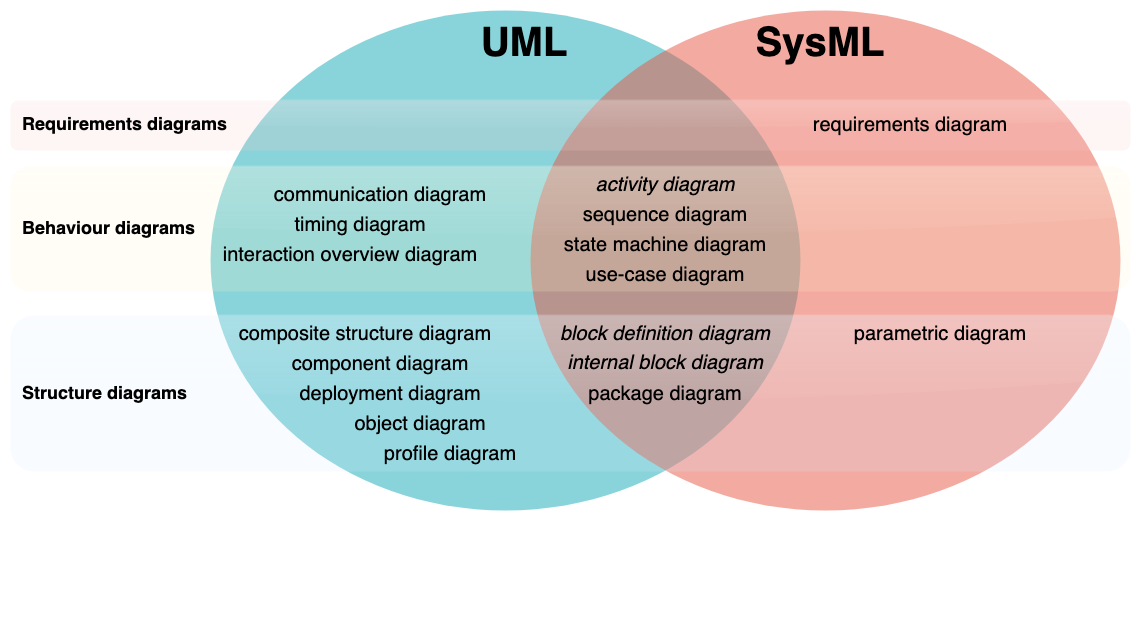
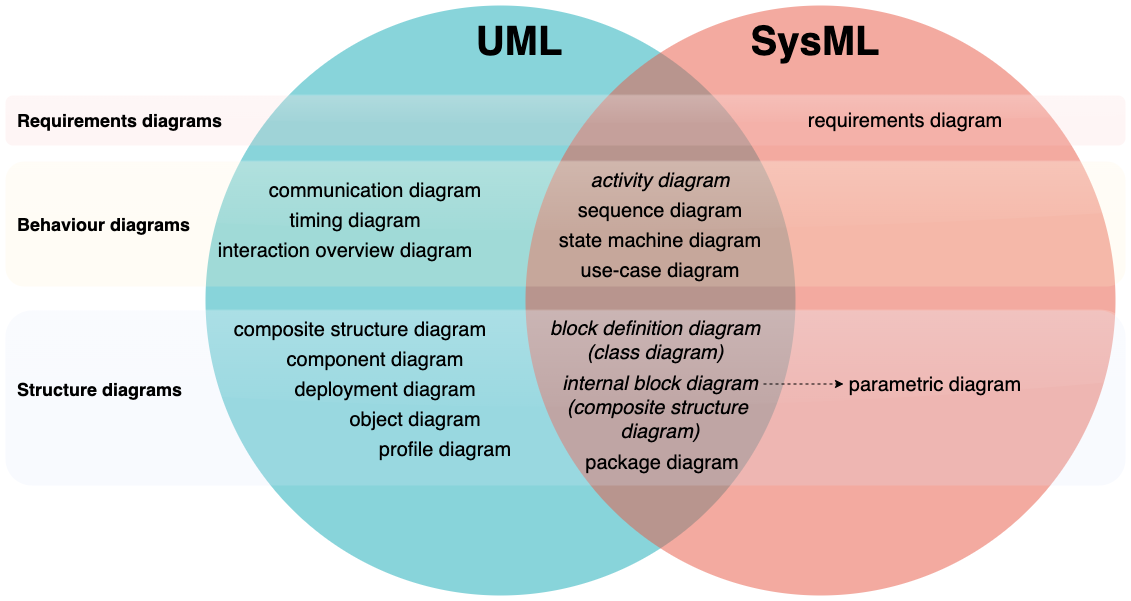
blog post

diff --git a/_posts/2022-09-02-sysml-vs-uml.md b/_posts/2022-09-02-sysml-vs-uml.md
@@ -1,0 +1,157 @@
+---
+layout: post
+author: diagrams.net
+slug: sysml-vs-uml
+date: 2022-09-02 09:43:00
+title: SysML vs UML - what's the difference?
+tags: [uml]
+categories: [use-cases]
+---
+
+Systems modelling language (SysML), is an extension of UML that has been modified for systems engineering. While both can document software, information and processes, SysML diagrams also document the hardware, humans, physical components, and facilities in the system.
+<br />[<img src="/assets/img/blog/sysml-vs-uml.png" style="width=100%;max-width:600px;height:auto;" alt="The diagram types in SysML vs UML">](https://viewer.diagrams.net/?lightbox=1&highlight=0000ff&edit=_blank&layers=1&page=0&nav=1&title=#Uhttps%3A%2F%2Fraw.githubusercontent.com%2Fjgraph%2Fdrawio-diagrams%2Fdev%2Fblog%2Fsysml-vs-uml.drawio)
+
+SysML has fewer diagrams than UML, and modifies three of the shared diagram types: activity diagrams, block definition diagrams (from class diagrams), and internal block diagrams (from composite structure diagrams). 
+
+Two new types of diagrams in SysML - requirements and parametric diagrams - are used to document specifications and ensure the system and illustrate how the product will meet measurable performance, safety or quality criteria.
+
+**Multi-page diagrams:** As each system or component may contain sub-systems/sub-components, [use multi-page diagrams](/blog/multiple-page-diagrams.html) and [link](/doc/faq/insert-text-link.html) the parent shape to its detailed diagram page. Select a shape and press ``Alt+Shift+L``, or right click on a shape and select _Edit Link_ .
+<br /><img src="/assets/img/blog/sysml-package-diagram-add-link.png" style="width=100%;max-width:300px;height:auto;" alt="Add links to sub-package diagrams on another page to easily navigate your diagram">
+
+
+## Enable the SysML shape library
+
+To create SysML diagrams in diagrams.net or draw.io, enable the SysML shape library. The shapes are organised into diagram-type sub-categories.
+1. Click on _More Shapes_ at the bottom of the shape panel on the left.
+2. Enable the checkbox next to _SysML_ in the _Business_ section.
+3. Click _Apply_.
+<br /><img src="/assets/img/blog/sysml-shape-library-enable.png" style="width=100%;max-width:300px;height:auto;" alt="Enable the SysML shape library">
+
+While you could create many of the diagrams with the UML shape libraries, the block shapes with ports, constraints and flows are in the SysML shape library.
+
+**Tip:** [Style the shapes with colour](/doc/faq/shape-styles.html) to more clearly differentiate between types of elements, different groupings or regions.
+
+## SysML diagrams for systems engineering
+
+Many of the SysML diagrams are the same or very similar to their UML counterparts - this is noted when each diagram type is introduced below.
+
+### Requirements diagrams  
+
+SysML requirements models are created early in the process to define and refine customer requirements. _(SysML only)_
+
+Also called detailed specification diagrams, requirements diagrams show how the different requirements are related to each other and design elements. They include descriptive test cases to ensure requirements are tracked and met during implementation. 
+
+Requirements can be specified as:
+
+* **functional** - these requirements _must_ be met.
+* **non-functional** - a quality criteria to test and evaluate the performance of a system and whatever it outputs.
+  
+Non-functional requirements can be specialised in the following ways.
+* ``<<performanceRequirement>>``
+* ``<<interfaceRequirement>>``
+* ``<<designConstraint>>``
+* ``<<physicalRequirement>>``
+
+Contained requirements are indicated with a circle with a vertical cross at the parent requirement. Test cases and derived requirements are linked to requirements with a dashed connector and an appropriate label.
+<br />[<img src="/assets/img/blog/sysml-requirements-diagram.png" style="width=100%;max-width:500px;height:auto;" alt="Draw SysML requirements diagrams in diagrams.net and draw.io with the SysML shape library">](https://viewer.diagrams.net/?lightbox=1&highlight=0000ff&edit=_blank&layers=1&page=0&nav=1&title=#Uhttps%3A%2F%2Fraw.githubusercontent.com%2Fjgraph%2Fdrawio-diagrams%2Fdev%2Fexamples%2Fsysml-requirements-diagram.drawio)
+
+### Use-case diagrams
+
+A use case diagram all of the ways an end-user interacts with your systems. _(Same as UML)_
+<br />[<img src="/assets/img/blog/uml-use-case-example.png" style="width=100%;max-width:400px;height:auto;" alt="An example of a use case diagram">](https://app.diagrams.net/?lightbox=1&highlight=0000ff&edit=_blank&layers=1&nav=1&title=#Uhttps%3A%2F%2Fraw.githubusercontent.com%2Fjgraph%2Fdrawio-diagrams%2Fdev%2Fexamples%2Fuml-use-case-example.drawio)
+
+### Sequence diagrams
+
+[Sequence diagrams](/blog/sequence-diagrams.html) show the order of messages that are passed between the elements of a system to complete a particular task or use case. _(Same as UML)_
+<br />[<img src="/assets/img/blog/uml-sequence-example.png" style="width=100%;max-width:400px;height:auto;" alt="Add shape and connector labels and drag text for conditions into a frame shape in a sequence diagram in diagrams.net">](https://app.diagrams.net/?lightbox=1&highlight=0000ff&edit=_blank&layers=1&nav=1&title=#Uhttps%3A%2F%2Fraw.githubusercontent.com%2Fjgraph%2Fdrawio-diagrams%2Fdev%2Fexamples%2Fsequence-diagram-examples.drawio)
+
+
+### State machine diagrams
+
+[State machine diagrams](/blog/uml-state-diagrams.html) document the various states a system can reach. Each node shows a system state, and the connectors show the triggers that force a change to another state.  _(Same as UML)_
+<br />[<img src="/assets/img/blog/uml-state-diagram-smart-lock.png" style="width=100%;max-width:400px;height:auto;" alt="An example top-level UML state machine diagram of a smart lock">](https://viewer.diagrams.net/?lightbox=1&highlight=0000ff&edit=_blank&layers=1&page=0&nav=1&title=#Uhttps%3A%2F%2Fraw.githubusercontent.com%2Fjgraph%2Fdrawio-diagrams%2Fdev%2Fblog%2Fuml-state-diagram-smart-lock.drawio)
+
+
+### Activity diagrams
+
+_Activity diagrams in SysML use slightly different shapes to those in UML, but the concepts are the same._
+
+In SysML [activity diagrams](/blog/uml-2-5), steps showing both the flow of control (solid connector) and the flow of data (dashed connector) are arranged into swimlanes. Regions can show events, group sub-activities, or note interrupts. 
+<br />[<img src="/assets/img/blog/sysml-activity-diagram.png" style="width=100%;max-width:650px;height:auto;" alt="Activity diagrams are used to model workflows in various ways">](https://viewer.diagrams.net/?lightbox=1&highlight=0000ff&edit=_blank&layers=1&page=0&nav=1&title=#Uhttps%3A%2F%2Fraw.githubusercontent.com%2Fjgraph%2Fdrawio-diagrams%2Fdev%2Fexamples%2Fsysml-activity-diagram.drawio)
+
+Use the shapes in the _SysML Activities_ category to build your activity diagram. The ports on activity shapes - the small squares - specify where data parameters or objects are required.
+<br /><img src="/assets/img/blog/sysml-activity-shapes.png" style="width=100%;max-width:400px;height:auto;" alt="The SysML activity shapes are different to those used in UML">
+
+
+### Package diagrams
+
+_SysML package diagrams are slightly different to UML package diagrams._
+
+Package diagrams are used to document, organise and manage large and complex systems. From this overview, you can link to lower level diagrams for sub-packages, operations (activity diagram), constraints, blocks, and so on. 
+
+Use shapes in the _Model elements_ category, and place them to form logical groups inside each package, including views and viewpoints, models and model libraries, constraints, and requirements where required.
+<br /><img src="/assets/img/blog/sysml-model-element-shapes.png" style="width=100%;max-width:500px;height:auto;" alt="The SysML model element shapes contain various styles of packages, models, views and viewpoints">
+
+Use the _Package Diagram_ as the outer shape to name the diagram. _SysML Blocks_ shapes can also be used in package diagrams. 
+
+Relationships between packages and elements are shown with different connector ends and solid or dashed lines: depend, import, realize, conform, contain, refine, and expose. 
+<br />[<img src="/assets/img/blog/sysml-package-diagram.png" style="width=100%;max-width:650px;height:auto;" alt="Package diagrams group elements of a system in a variety of logical ways">](https://viewer.diagrams.net/?lightbox=1&highlight=0000ff&edit=_blank&layers=1&page=0&nav=1&title=#Uhttps%3A%2F%2Fraw.githubusercontent.com%2Fjgraph%2Fdrawio-diagrams%2Fdev%2Fexamples%2Fsysml-package-diagram.drawio)
+
+**Tip:** Label any unclear relationships by double clicking on a connector, e.g. ``<<conform>>`` or ``<<refine>>``.
+
+Many of these shapes can contain sub-diagrams. Alternatively, create a [multi-page diagram](/blog/multiple-page-diagrams.html) and [link from the parent shape](/doc/faq/insert-text-link.html) to its page.
+
+
+
+### Block definition diagrams
+
+_SysML block definition diagrams are heavily modified [UML class diagrams](/blog/uml-class-diagrams.html)._
+
+'Blocks' describe the architecture of a system and contain **constraints**, **operations**, **parts**, **references**, **values**, and **properties** - everything you need to specify the hardware, software, and human components of a system.
+
+One or more compartments - **stereotype**, **namespace**, and **structure** - may contain lower level block definition diagrams, nesting simpler systems inside higher level blocks. 
+
+Connectors indicate behaviour similar to UML class diagrams, but with fewer 'arrow' types: 
+* **dependency** - dashed line
+* **association** - middle label with an arrow to indicate association direction
+   * **part association** - filled diamond
+   * **shared association** - empty diamond
+* **generalisation** - empty triangle
+* **namespace containment** - circle with horizontal/vertical bars
+
+Connectors can split to form multi-branch associations. Use the waypoint shape to join these connectors neatly in diagrams.net.
+<br />[<img src="/assets/img/blog/sysml-block-definition-diagram.png" style="width=100%;max-width:600px;height:auto;" alt="Draw SysML block definition diagrams in diagrams.net and draw.io with the SysML shape library">](https://viewer.diagrams.net/?lightbox=1&highlight=0000ff&edit=_blank&layers=1&page=0&nav=1&title=#Uhttps%3A%2F%2Fraw.githubusercontent.com%2Fjgraph%2Fdrawio-diagrams%2Fdev%2Fexamples%2Fsysml-block-definition-diagram.drawio)
+
+**Work with text in block shapes:** 
+* Press ``Enter`` to add a new line.  
+  
+* Double click on a word to highlight and format it with the _Text_ tab on the format panel.
+  
+* To add a section divider, highlight an existing divider in any block shape. Double click on target block so you can see the text cursor, and press ``Ctrl+C`` then ``Ctrl+V`` to copy and paste the section divider at that location.
+
+### Internal block diagrams
+
+_SysML internal block diagrams are modified [UML composite structure diagrams](/blog/uml-2-5.html)._
+
+Internal block diagrams describe connections between the ports of block instances to show what data or material flows between those blocks and its properties.
+
+There are some special types of properties:
+* **ports** - permit only specific types of interactions with that block
+* **constraints** - limit other properties inside the block
+* **participants** - indicate composite associations
+
+Connectors in internal block diagrams can show the following: 
+* **dependency** - dashed line
+* **binding** - solid line, optionally with tye type indicated, e.g. ``<<equal>>``
+
+Indicate flow directions with solid arrows - basic filled triangle shapes - in the middle of the connectors.
+<br />[<img src="/assets/img/blog/sysml-internal-block-diagram.png" style="width=100%;max-width:600px;height:auto;" alt="Draw SysML internal block diagrams in diagrams.net and draw.io with the SysML shape library">](https://viewer.diagrams.net/?lightbox=1&highlight=0000ff&edit=_blank&layers=1&page=0&nav=1&title=#Uhttps%3A%2F%2Fraw.githubusercontent.com%2Fjgraph%2Fdrawio-diagrams%2Fdev%2Fexamples%2Fsysml-internal-block-diagram.drawio)
+
+#### Parametric diagrams
+
+A parametric model is a specialised form of internal block diagram used to analyse metrics for performance, safety, reliability, and measurable physical characteristics.
+
+Link each constraint via its ports to either a constraint parameter node or another constraint shape. Use the shapes in the _Constraints_ and _Ports and Flows_ categories, and modify, flip and label them as needed to suit your layout.
+<br />[<img src="/assets/img/blog/sysml-parametric-diagram.png" style="width=100%;max-width:600px;height:auto;" alt="Draw SysML parametric diagrams in diagrams.net and draw.io with the SysML shape library">](https://viewer.diagrams.net/?lightbox=1&highlight=0000ff&edit=_blank&layers=1&page=0&nav=1&title=#Uhttps%3A%2F%2Fraw.githubusercontent.com%2Fjgraph%2Fdrawio-diagrams%2Fdev%2Fexamples%2Fsysml-parametric-diagram.drawio)
+
+**Tip:** Overlay additional square shapes to add more than two constraints and group them with the constraint shape. Hold down ``Alt`` or ``Option`` to [overlap shapes on container shapes](/doc/faq/shapes-overlap).

diff --git a/_posts/2022-08-19-diagrams-other-names.md b/_posts/2022-08-19-diagrams-other-names.md
@@ -8,16 +8,16 @@ tags: [news]
 categories: [news]
 ---
 
-Finding a typo-proof word that is also pronounced the same throughout the world is simple, how sensible companies fail to stop users from mis-spelling product names eludes us. diagrams.net and draw.io demonstrate the right way to do this, clearly. However, a small, minor, fractional, minority of users regularly fall asleep on their keyboards while typing our product name, this is the only rational explaination.
+Finding a typo-proof word that is also pronounced the same throughout the world is simple, how sensible companies fail to stop users from mis-spelling product names eludes us. diagrams.net and draw.io demonstrate the right way to do this, clearly. However, a small, minor, fractional, minority of users regularly fall asleep on their keyboards while typing our product name, this is the only rational explanation.
 <br />[<img src="/assets/img/blog/freehand-crow.png" style="width=100%;max-width:500px;height:auto;" alt="Freehand drawing in diagrams.net on a tablet - click the freehand tool in the toolbar on the left">](/blog/freehand-drawing.html)
 
-**craw.io** - do our diagrams make you angry? Or maybe it's a reference to the cleverness of crows? Do those flithy BPMN shapes make your skin crawl?
+**craw.io** - do our diagrams make you angry? Or maybe it's a reference to the cleverness of crows? Do those filthy BPMN shapes make your skin crawl?
 
 **dra.io** - the languages with a close appropriate meaning would be Norwegian (to draw or drag) or Swedish (to pull or tell a story). Or perhaps Yola, the Forth and Bargy dialect (to draw) in County Wexford. We bet you've dropped your lunch under the ``w`` key.
 
 **dran.io** - your turn! _(German)_ Seriously, we're not sure how ``n`` slips in for ``w`` as those two keys are usually far from each other in most layouts. Perhaps Maltron 3D keyboard users slipping from the ``a``?
 
-**draq.io** - uncertain, unexpected, indefinable, but riveting. Or perhaps fashionable? Or cut off accidently while typing something longer...
+**draq.io** - uncertain, unexpected, indefinable, but riveting. Or perhaps fashionable? Or cut off accidentally while typing something longer...
 
 **drag.io** - a wonderfully concise description of [how to use diagrams.net and draw.io](/doc/getting-started-editor.html) - drag shapes onto the canvas and drag connectors between them.
 
